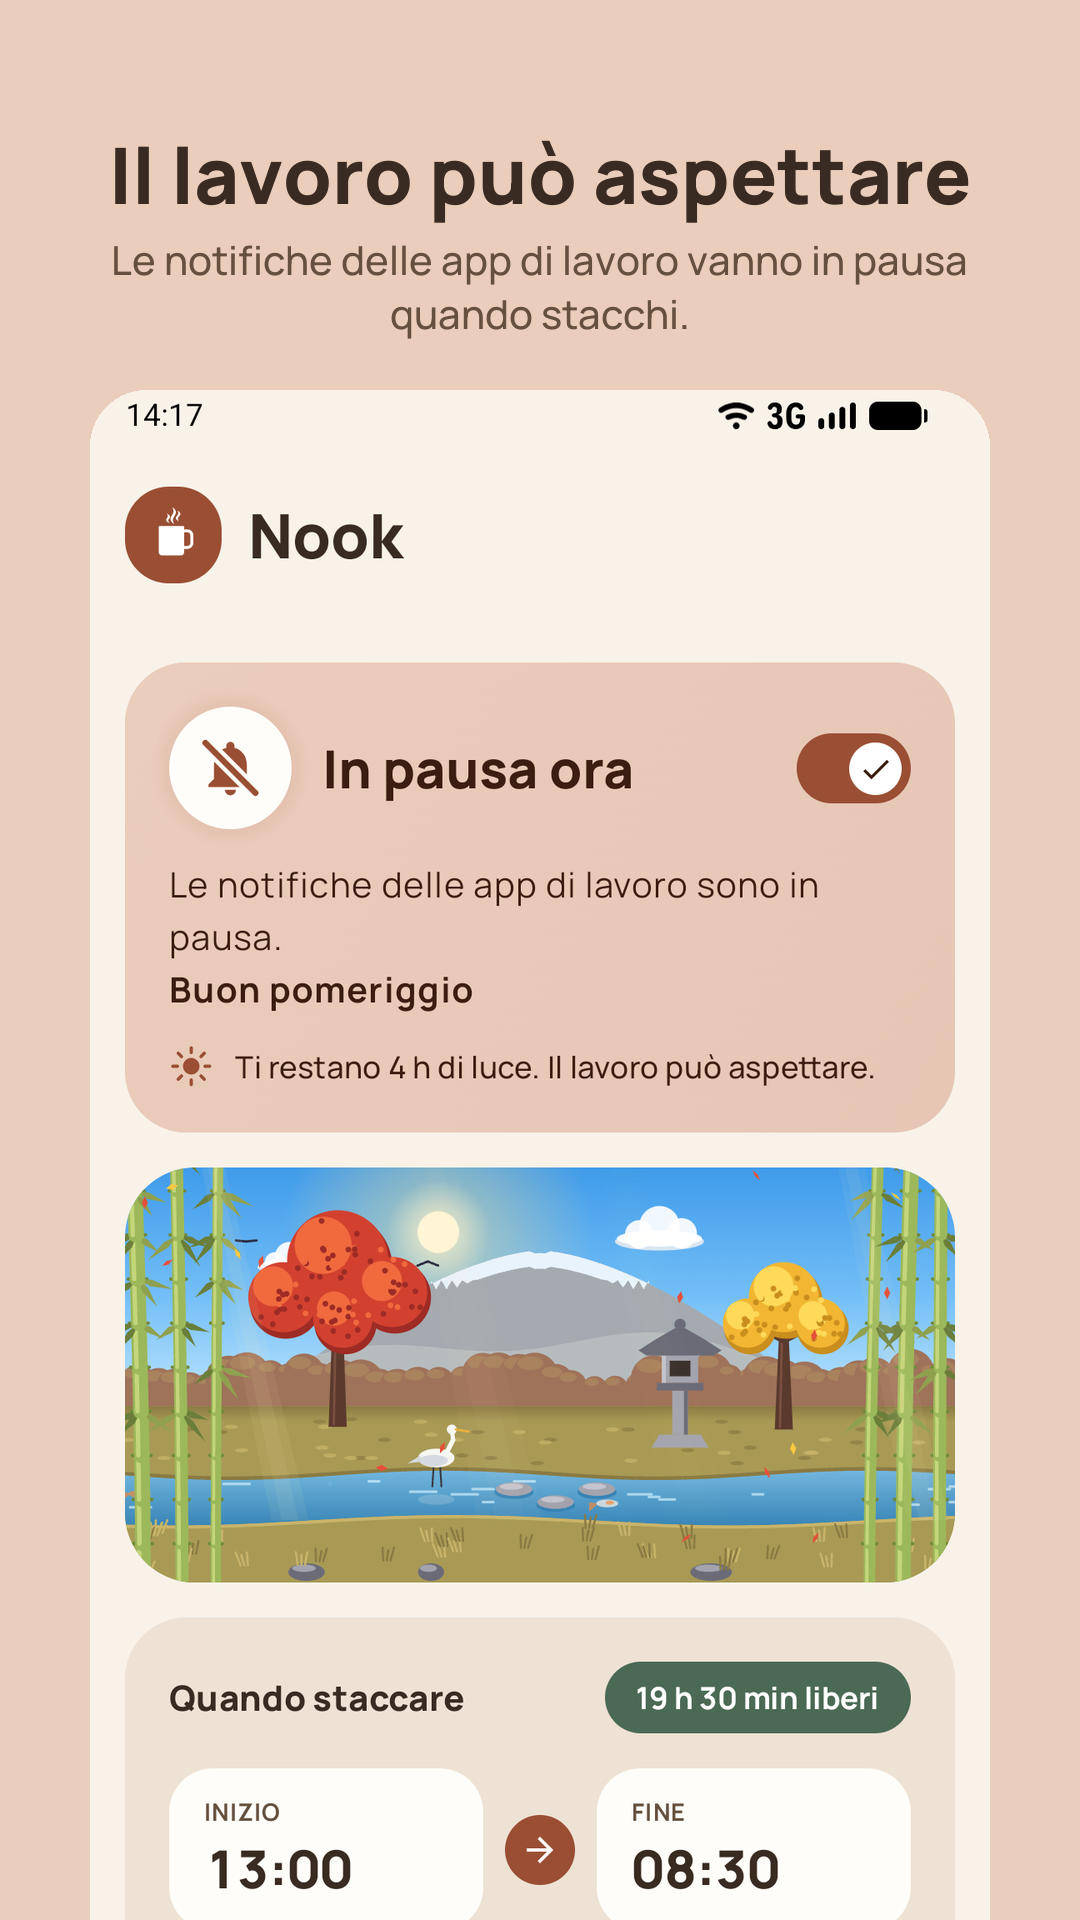
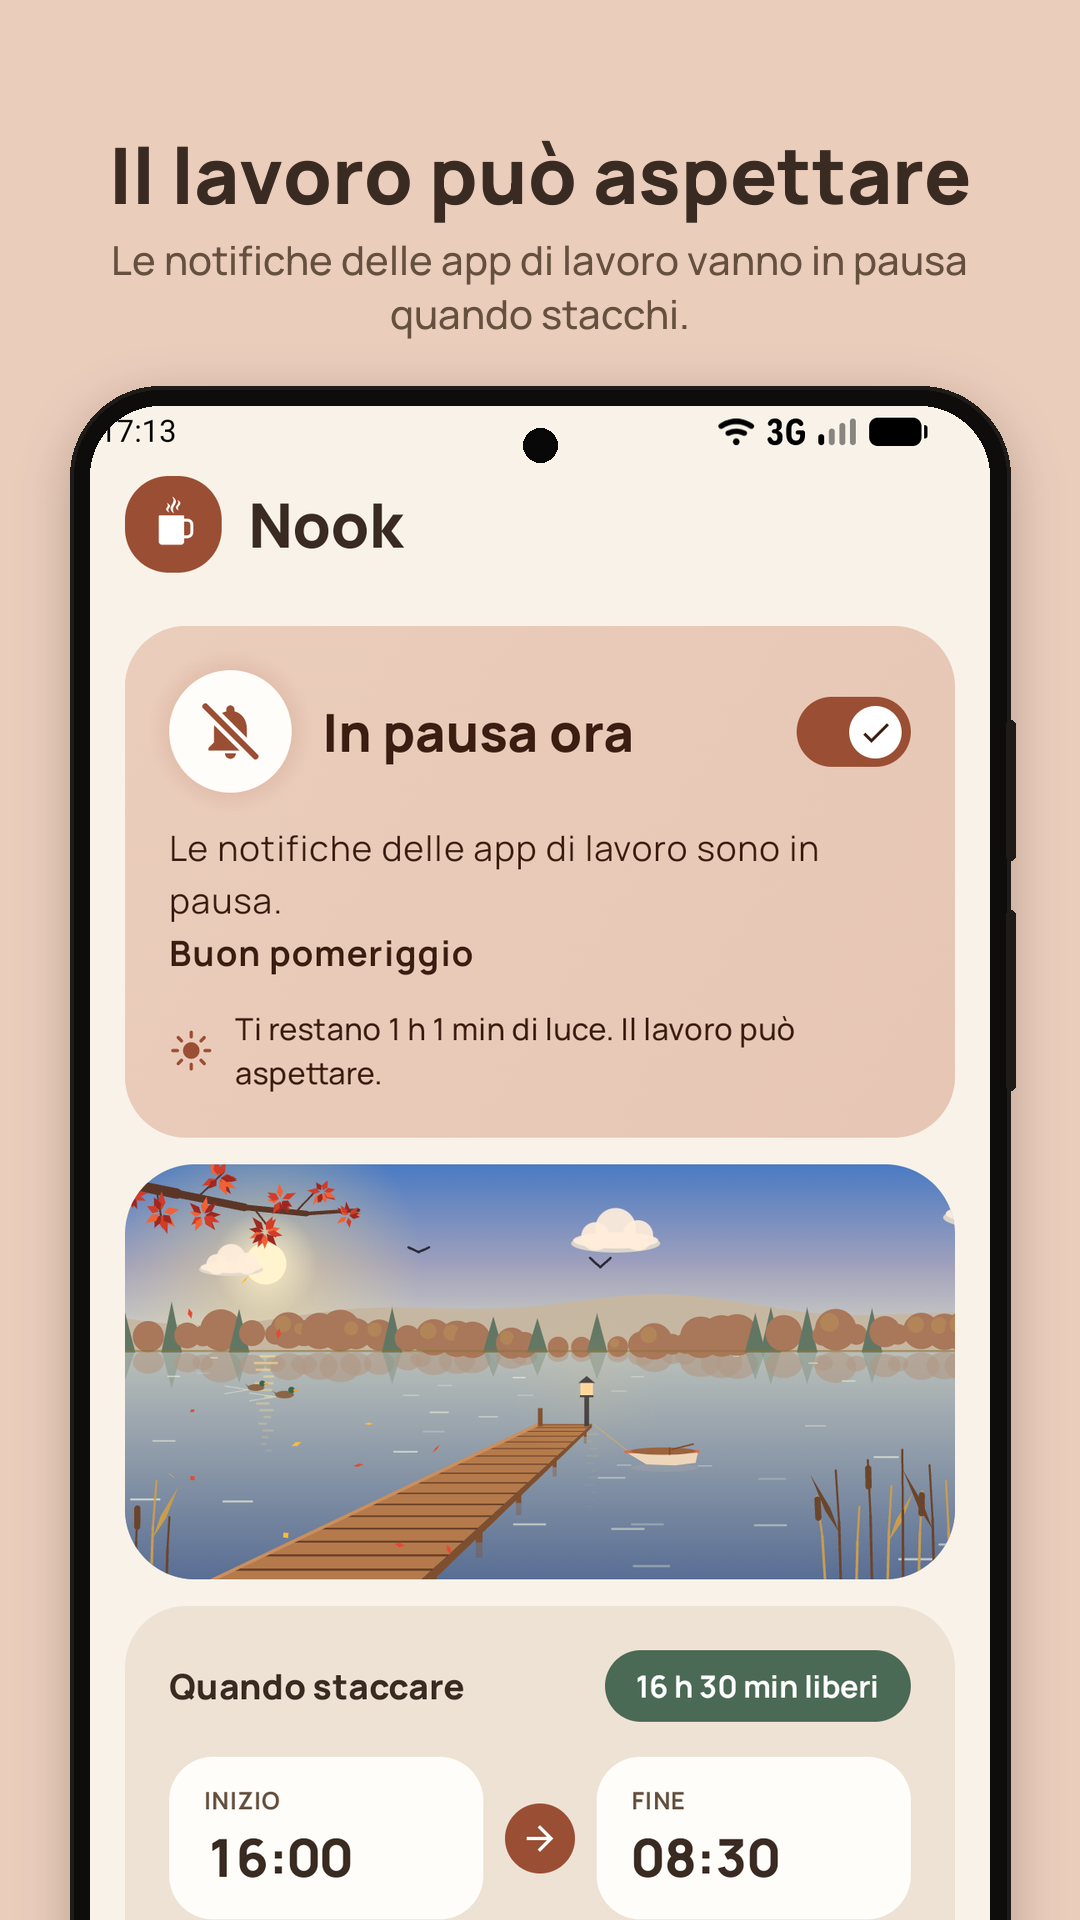
Store graphics: redo screenshots and feature graphic with the new scenes
Screenshots now sit in a phone bezel and show the lake pier / office desk
scenes. The feature graphic is rendered from the current nature scene.

The capture script was flaky, so it now: warms up after a locale change,
launches a fresh task and checks Home before every shot, writes prefs only
with the process dead and the listener off (a live Nook process rewrote
them with stale values), and localizes SystemUI for the shade shot.

diff --git a/tools/store/compose_screenshots.py b/tools/store/compose_screenshots.py
@@ -2,14 +2,14 @@
 """Store screenshots: 1080 x 1920 (9:16) frames with a caption, one set per language.
 
 Google Play rejects raw phone captures whose long side is more than twice the short side
-(1080 x 2400 is 2.22), so every capture is framed here. Captions follow the copy rules of
+(1080 x 2400 is 2.22), so every capture is framed here, inside a phone bezel that bleeds off the bottom edge. Captions follow the copy rules of
 docs/DESIGN_SYSTEM.md ("Testi e tono").
 
 Usage: python3 tools/store/compose_screenshots.py RAW_DIR path/to/Manrope[wght].ttf
 RAW_DIR holds it-IT/ and en-US/ with the captures written by tools/store/capture_screenshots.sh.
 Writes docs/store/screenshots/{it,en}/.
 """
-from PIL import Image, ImageDraw, ImageFont
+from PIL import Image, ImageDraw, ImageFilter, ImageFont
 import os, sys
 from pathlib import Path
 ROOT=str(Path(__file__).resolve().parents[2] / 'docs/store/screenshots')
@@ -27,7 +27,7 @@ SHOTS=[
  ('02_app','3_apps',None,LIGHT,
   ("Scegli le app di lavoro","Tutte le altre notifiche arrivano come sempre."),
   ("Pick your work apps","Every other notification comes through as usual.")),
- ('03_notifica','2_shade',(0,70,1080,1060),LIGHT,
+ ('03_notifica','2_shade',None,LIGHT,
   ("Tutto nella tendina","Una notifica silenziosa ti dice fino a quando dura la pausa."),
   ("Your break at a glance","A silent notification shows when it ends.")),
  ('04_resoconto','4_report',None,LIGHT,
@@ -61,13 +61,20 @@ for lang,folder in (('it','it-IT'),('en','en-US')):
         shot=Image.open(f'{RAW}/{folder}/{src}.png').convert('RGB')
         if crop: shot=shot.crop(crop)
         sw=900; sh=int(shot.height*sw/shot.width); shot=shot.resize((sw,sh),Image.LANCZOS)
-        if crop:
-            sw2=980; shot=shot.resize((sw2,int(shot.height*sw2/shot.width)),Image.LANCZOS)
-            x=(W-sw2)//2; y0=top+(H-top-shot.height)//2-60
-            img.paste(shot,(x,y0),rounded(shot,44))
-        else:
-            vis=H-top+60  # bleed off the bottom edge
-            shot=shot.crop((0,0,sw,min(sh,vis)))
-            m=rounded(Image.new('RGB',(sw,shot.height+60)),56).crop((0,0,sw,shot.height))
-            img.paste(shot,((W-sw)//2,top),m)
+        BZ=16; OR=86   # bezel width, outer corner radius (inner = OR - BZ)
+        fx=(W-sw-2*BZ)//2; fw=sw+2*BZ
+        vis=H-top-BZ+60  # screen height shown: it bleeds off the bottom edge
+        shot=shot.crop((0,0,sw,min(sh,vis)))
+        if pal is LIGHT:  # soft shadow under the phone
+            sh_=Image.new('RGBA',(W,H),(0,0,0,0)); ImageDraw.Draw(sh_).rounded_rectangle((fx,top+14,fx+fw,H+200),OR,fill=(58,43,34,70))
+            img.paste(sh_.filter(ImageFilter.GaussianBlur(26)),(0,0),sh_.filter(ImageFilter.GaussianBlur(26)))
+        d=ImageDraw.Draw(img)
+        rim=(30,27,25) if pal is LIGHT else (92,84,78)
+        d.rounded_rectangle((fx-4,top-4,fx+fw+4,H+200),OR+4,fill=rim)               # rim
+        d.rounded_rectangle((fx,top,fx+fw,H+200),OR,fill=(14,13,12))                   # bezel
+        d.rounded_rectangle((fx+fw,top+330,fx+fw+9,top+470),4,fill=rim)                # power button
+        d.rounded_rectangle((fx+fw,top+520,fx+fw+9,top+700),4,fill=rim)                # volume
+        m=rounded(Image.new('RGB',(sw,shot.height+200)),OR-BZ).crop((0,0,sw,shot.height))
+        img.paste(shot,(fx+BZ,top+BZ),m)
+        d.ellipse((W//2-17,top+BZ+22,W//2+17,top+BZ+56),fill=(8,8,8))                  # camera
         out=f'{ROOT}/{lang}/{name}.png'; img.save(out,optimize=True); print(out, img.size, os.path.getsize(out)//1024,'KB')

diff --git a/docs/store/LISTING.md b/docs/store/LISTING.md
@@ -120,7 +120,7 @@ Tutti i file sono già nelle dimensioni richieste da Play.
 |---|---|---|
 | Icona | `icon-512.png` | 512×512, PNG a 32 bit, meno di 1 MB (è 10 KB) |
 | Feature graphic | `feature-graphic-it.png`, `feature-graphic-en.png` | 1024×500, PNG a 24 bit senza trasparenza. Obbligatoria |
-| Screenshot telefono | `screenshots/it/*.png`, `screenshots/en/*.png` | 1080×1920 (9:16), da 2 a 8. Caricali in ordine di nome |
+| Screenshot telefono | `screenshots/it/*.png`, `screenshots/en/*.png` | 1080×1920 (9:16), da 2 a 8. Caricali in ordine di nome. Didascalia in alto e telefono con cornice che esce dal bordo basso |
 
 Gli screenshot, nell'ordine:
 
@@ -128,11 +128,11 @@ Gli screenshot, nell'ordine:
 |---|---|---|
 | `01_pausa` | Il lavoro può aspettare | Work can wait |
 | `02_app` | Scegli le app di lavoro | Pick your work apps |
-| `03_notifica` | Tutto nella tendina | All in the shade |
+| `03_notifica` | Tutto nella tendina | Your break at a glance |
 | `04_resoconto` | Sai cosa ti aspetta | Know what's waiting |
 | `05_scuro` | Anche con il tema scuro | Light or dark |
 
-Come rifarli (dopo un cambio di interfaccia):
+Come rifarli (dopo un cambio di interfaccia o delle scene):
 
 ```bash
 ./gradlew assembleDebug && adb install -r app/build/outputs/apk/debug/app-debug.apk
@@ -142,6 +142,13 @@ python3 tools/store/compose_screenshots.py /tmp/nook-raw path/to/Manrope.ttf
 python3 tools/store/feature_graphic.py path/to/Manrope.ttf
 python3 tools/icon/launcher_icon.py                     # icona 512
 ```
+
+Cose da sapere sulla cattura (`capture_screenshots.sh`, ~4 minuti):
+
+- Serve un emulatore con le app Google (Gmail, Calendar, Drive): sono le tre "app di lavoro" delle schermate. Il lancio si ferma se Nook non arriva in Home.
+- La scena e l'arte della notifica seguono l'ora vera: gira nel pomeriggio (luce piena o ora dorata). A cavallo del passaggio giorno/tramonto le due lingue potrebbero avere notifiche diverse: aspetta qualche minuto e rilancia.
+- Cambia da solo la lingua di Nook e di `com.android.systemui` (data nella tendina) e le rimette a "predefinita" alla fine. "Silent" e "Mobile data" nella tendina restano in inglese anche nel set italiano: le stringhe non sono tradotte nell'immagine dell'emulatore.
+- Scrive le preferenze solo a processo fermo e con il listener spento: un processo Nook vivo le riscrive con i valori vecchi.
 
 Manrope: `Manrope[wght].ttf` da https://github.com/google/fonts/tree/main/ofl/manrope.
 
@@ -196,6 +203,6 @@ Nook only reads the package name of each notification to decide whether to remov
 | Voce | Stato |
 |---|---|
 | Testi IT/EN | Pronti |
-| Icona, feature graphic, 5 screenshot IT + 5 EN | Pronti |
+| Icona, feature graphic, 5 screenshot IT + 5 EN | Pronti (rifatti il 02/10/2026 con le scene nuove) |
 | Risposte ai moduli | Pronte, da ricontrollare in Play Console |
 | Verifica marchio "Nook" | Da fare (Pasquale) |

diff --git a/docs/ROADMAP.md b/docs/ROADMAP.md
@@ -13,7 +13,7 @@ Guida passo passo per la parte manuale: [`PUBLISHING.md`](PUBLISHING.md). Testi,
 | Verifica del marchio "Nook" | Pasquale | Prima di tutto. Vedi `PUBLISHING.md`, passo 1 |
 | Account Play Console + verifica identità | Pasquale | 25 $ una tantum, qualche giorno di attesa |
 | Test chiuso: 12 tester per 14 giorni | Pasquale | Obbligatorio per gli account personali creati dopo il 13/11/2023 |
-| Scheda dello store | Pronta | Testi IT/EN, screenshot, icona. Manca la feature graphic 1024×500 (prompt in `LISTING.md`). Rifare gli screenshot della Home: mostrano le scene vecchie (città dal laptop, giardino giapponese) |
+| Scheda dello store | Pronta | Testi IT/EN, icona, feature graphic e 5 screenshot IT/EN con le scene nuove (rifatti il 02/10/2026, telefono con cornice). Rifarli se cambiano Home o scene: `LISTING.md`, "Grafica" |
 | Tag `v1.0.0` | Claude | Quando l'AAB caricato in produzione è quello definitivo |
 
 ## 1. Fondamenta (prima di tutto il resto)
